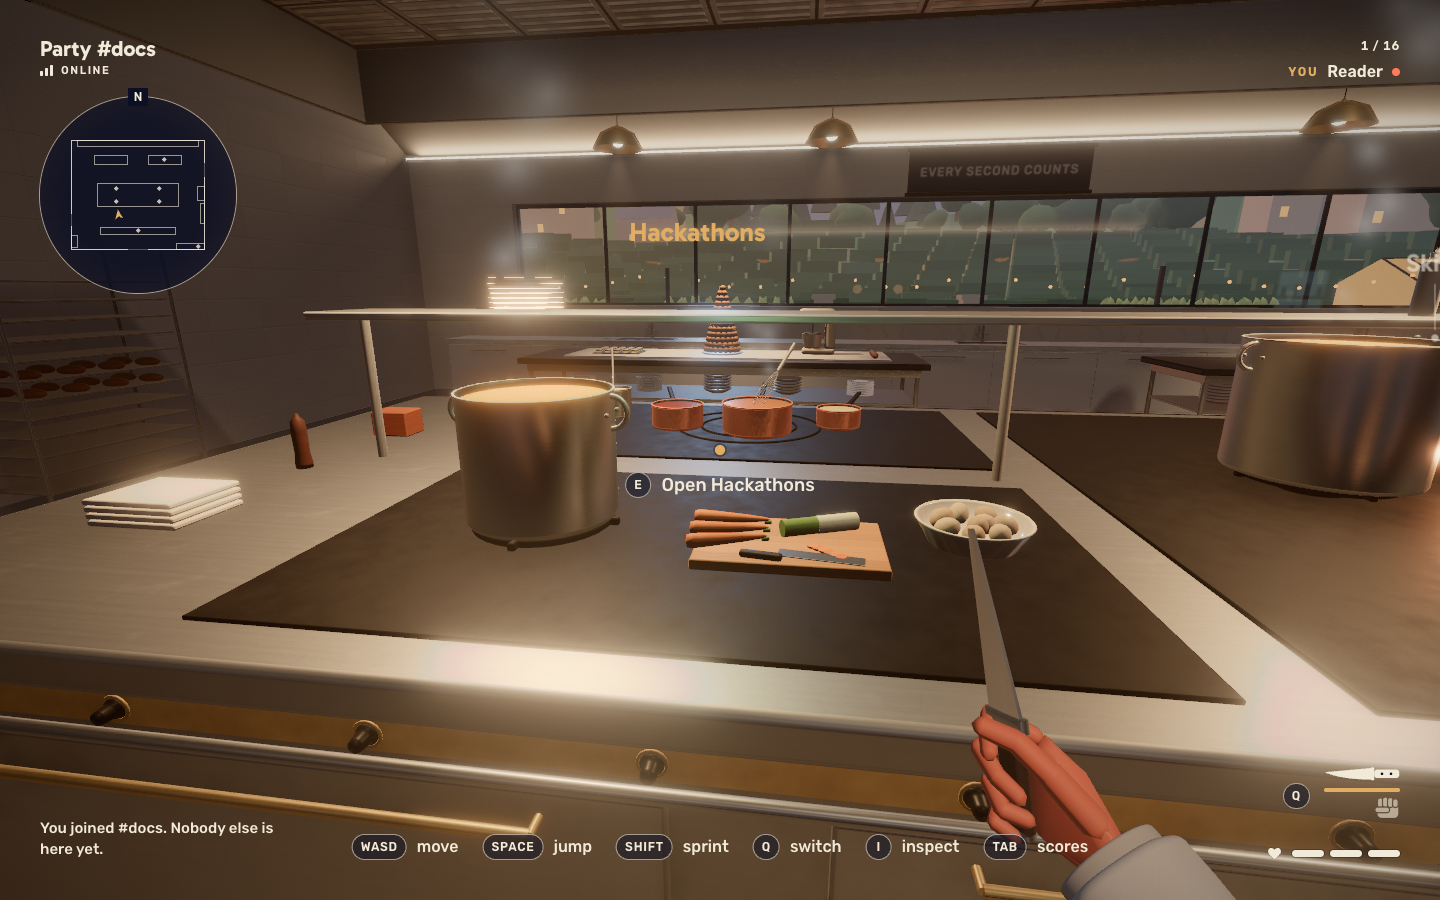
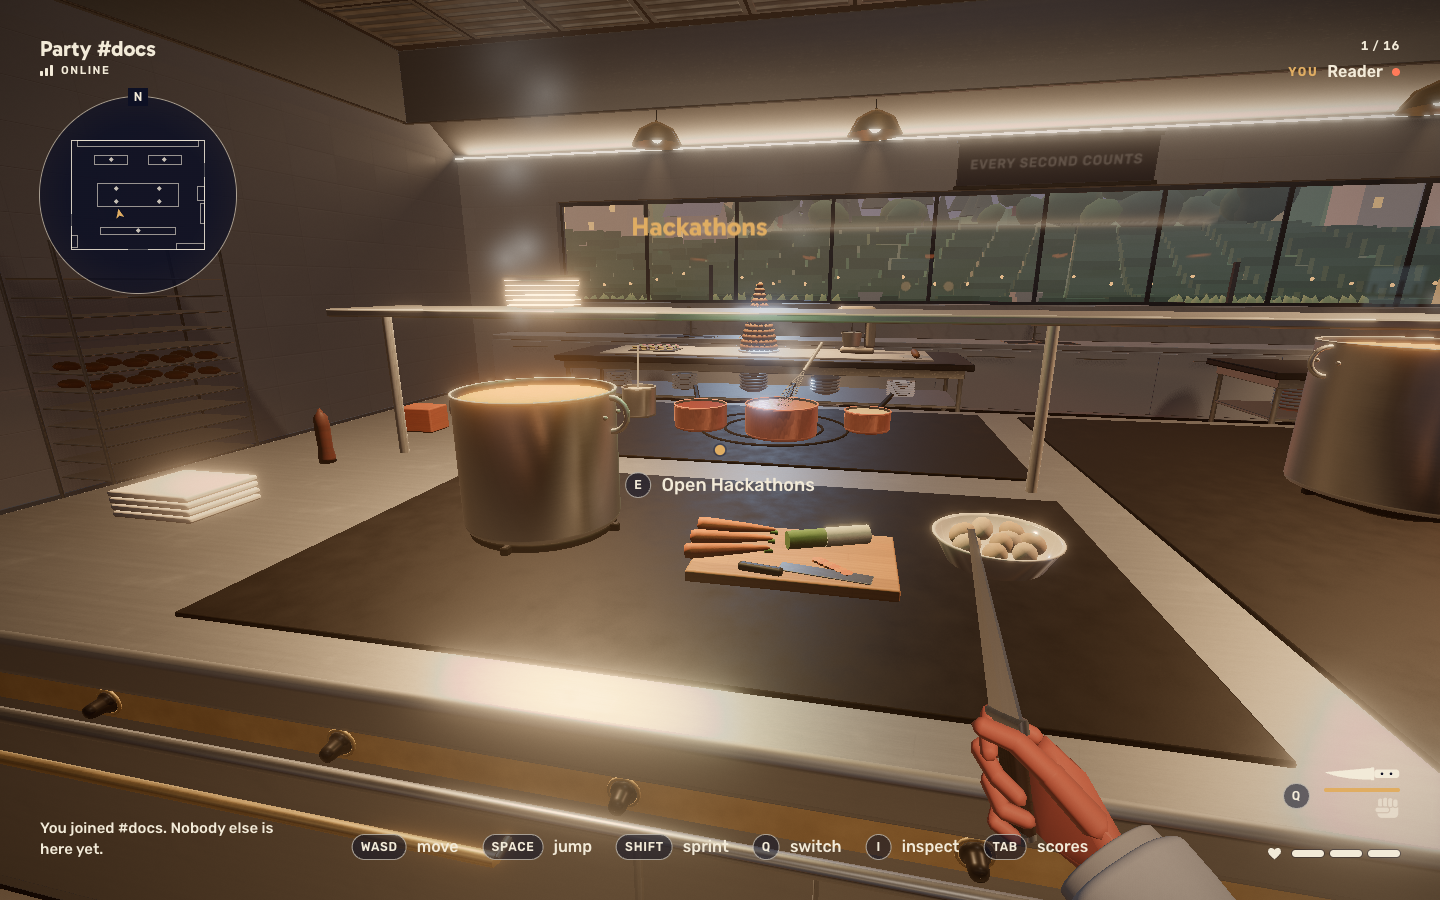
Move Education from the plonge to the pâtisserie, across from Skills, leave the dish pit as scenery, and keep the east wall's picking guard on the croissant
- The pâtisserie is a station again where it was, with its pink light; the plonge is out of STATIONS and StationId, and the pre-rinse spray takes its x from the east sink (7.2), as kitchen.ts and the knife solids do. Still seven stations, Education still last.
- e2e/stations.spec.ts opens Education at the pastry table, and picks the truffle croissant from the spawn with the walk-in shut, the case the 2026-10-09 fix named besides the plonge; `face` in the E2E helpers turns to any point, `faceStation` to a station.
- stations.test.ts checks reach on the pâtisserie from the north, where no other station is in the way.
- The screenshots were taken again.

diff --git a/e2e/stations.spec.ts b/e2e/stations.spec.ts
@@ -1,41 +1,57 @@
 import { expect, test } from '@playwright/test';
+import { PASS_DISHES } from '@world/shared';
 import {
   enterWorld,
-  findWithCursor,
-  grid,
+  face,
+  faceStation,
   MAP_VIEWPORT,
-  turnTo,
   waitUntilStill,
   walkUntil,
   world,
 } from './helpers.ts';
 
-test('the plonge by the east wall opens while the walk-in is shut', async ({ browser }) => {
+test('Education opens at the pastry table across from Skills, and the map and the room give way to it', async ({
+  browser,
+}) => {
   const page = await enterWorld(browser, {
-    name: 'Dishwasher',
+    name: 'Pastry Cook',
     online: false,
     viewport: MAP_VIEWPORT,
   });
-  expect((await world(page)).cooler.open).toBe(false);
-  // From the spawn, along the aisle toward the dish pit in the south-east corner, then face east,
-  // where the walk-in's wall is behind it.
-  await walkUntil(page, 'KeyD', (p) => p.x > 2.6);
+  // From the spawn, round the west end of the pass and the piano, then up to the pastry island.
+  await walkUntil(page, 'KeyA', (p) => p.x < -5.3);
+  await walkUntil(page, 'KeyW', (p) => p.z < -2.6);
+  await walkUntil(page, 'KeyD', (p) => p.x > -3.2);
   await waitUntilStill(page);
-  await turnTo(page, -Math.PI / 2, -0.3);
-
-  // Without pointer lock the game picks under the cursor: sweep it over the view until it finds
-  // the station.
-  const found = await findWithCursor(
-    page,
-    grid([240, 900], [120, 440], { x: 30, y: 16 }),
-    'Press E to open Education',
-  );
-  expect(found, 'the cursor should find the plonge in front of the wall').not.toBeNull();
+  await faceStation(page, 'patisserie');
+  // Without pointer lock the game picks under the cursor: the middle of the screen, as the
+  // crosshair would.
+  await page.mouse.move(MAP_VIEWPORT.width / 2, MAP_VIEWPORT.height / 2);
+  await expect(page.locator('.prompt-sentence')).toHaveText('Press E to open Education');
   await expect(page.locator('.minimap')).toBeVisible();
   await page.keyboard.press('KeyE');
   await expect(page.getByRole('dialog', { name: 'Education' })).toBeVisible();
   // The panel's dark side would wash out a long room name, so the map and the room give way to it.
   await expect(page.locator('.minimap')).toBeHidden();
   await expect(page.locator('.hud-room-title')).toBeHidden();
+  await page.context().close();
+});
+
+test('the croissant by the east wall opens while the walk-in is shut', async ({ browser }) => {
+  const page = await enterWorld(browser, { name: 'Diner', online: false });
+  expect((await world(page)).cooler.open).toBe(false);
+  await waitUntilStill(page);
+  // From the spawn the croissant is at the east end of the pass, and the ten meter pick ray past it
+  // meets the east wall: picking stops at the wall rather than refusing the aim.
+  await face(
+    page,
+    PASS_DISHES.find((d) => d.id === 'truffle-croissant')!,
+  );
+  await page.mouse.move(480, 270);
+  await expect(page.locator('.prompt-sentence')).toHaveText(
+    'Press E to open Black Truffle Croissant',
+  );
+  await page.keyboard.press('KeyE');
+  await expect(page.getByRole('dialog', { name: 'Black Truffle Croissant' })).toBeVisible();
   await page.context().close();
 });

diff --git a/e2e/helpers.ts b/e2e/helpers.ts
@@ -273,16 +273,26 @@ export async function walkUntil(
 }
 
 /**
- * Look straight at a station's centerpiece from wherever the cook stands, as a visitor turns to
- * what they mean to open: a walk that stops a little late on a slow page still ends in front of it.
+ * Look straight at a point from wherever the cook stands, as a visitor turns to what they mean to
+ * open: a walk that stops a little late on a slow page still ends in front of it.
  */
-export async function faceStation(page: Page, id: StationId): Promise<void> {
-  const station = STATIONS.find((s) => s.id === id)!;
+export async function face(
+  page: Page,
+  target: { readonly x: number; readonly y: number; readonly z: number },
+): Promise<void> {
   const { player } = await world(page);
-  const dx = station.x - player.x;
-  const dz = station.z - player.z;
-  const up = station.y - (player.y + EYE_HEIGHT);
+  const dx = target.x - player.x;
+  const dz = target.z - player.z;
+  const up = target.y - (player.y + EYE_HEIGHT);
   await turnTo(page, Math.atan2(-dx, -dz), Math.atan2(up, Math.hypot(dx, dz)));
+}
+
+/** Look straight at a station's centerpiece. */
+export async function faceStation(page: Page, id: StationId): Promise<void> {
+  await face(
+    page,
+    STATIONS.find((s) => s.id === id)!,
+  );
 }
 
 const EAST = -Math.PI / 2;

diff --git a/apps/client/src/content.ts b/apps/client/src/content.ts
@@ -312,9 +312,9 @@ export type StationContent = Readonly<Record<StationId, LoreEntry>>;
 /**
  * What each station's panel says when it is opened in the kitchen. Each station of the brigade
  * serves the part of the resume that suits its work: the pass, the first thing a visitor sees,
- * introduces Daniel; the saucier, the senior station, holds his experiences; the plonge, where every
- * cook starts and by the door to the dining room, holds his education and how to reach him. The
- * pâtisserie holds nothing: it is only the kitchen's pastry corner.
+ * introduces Daniel; the saucier, the senior station, holds his experiences; the pâtisserie, across
+ * from the garde manger's skills, holds his education and how to reach him. The plonge holds
+ * nothing: it is only the kitchen's dish pit.
  */
 export const stations: StationContent = {
   // Le passe, the pass.
@@ -361,11 +361,11 @@ export const stations: StationContent = {
     color: '#9fd8ef',
     items: skills,
   },
-  // Plonge, the dish pit.
-  plonge: {
-    id: 'plonge',
+  // Pâtisserie, pastry.
+  patisserie: {
+    id: 'patisserie',
     title: 'Education',
-    color: '#a9b8ff',
+    color: '#f4a6c6',
     items: education,
     links,
   },

diff --git a/packages/shared/src/world.ts b/packages/shared/src/world.ts
@@ -413,7 +413,7 @@ function crossesBesideDoorway(
 }
 
 export type StationId =
-  'passe' | 'saucier' | 'poissonnier' | 'rotisseur' | 'entremetier' | 'garde-manger' | 'plonge';
+  'passe' | 'saucier' | 'poissonnier' | 'rotisseur' | 'entremetier' | 'garde-manger' | 'patisserie';
 
 export interface Station {
   readonly id: StationId;
@@ -430,7 +430,7 @@ const ON_COUNTER = COUNTER_HEIGHT + 0.25;
 
 /**
  * The stations of the brigade that each hold a section of Daniel's resume, all clickable. The
- * pâtisserie is not one: its island is only the kitchen's pastry corner.
+ * plonge is not one: its sinks are only the kitchen's dish pit.
  */
 export const STATIONS: readonly Station[] = [
   { id: 'entremetier', x: -2.6, y: ON_COUNTER, z: PIANO_ROW, radius: 0.75 },
@@ -439,7 +439,7 @@ export const STATIONS: readonly Station[] = [
   { id: 'poissonnier', x: 2.6, y: ON_COUNTER, z: -PIANO_ROW, radius: 0.75 },
   { id: 'passe', x: 0, y: COUNTER_HEIGHT + 0.35, z: 4.3, radius: 1.0 },
   { id: 'garde-manger', x: 3.2, y: ON_COUNTER, z: -4.2, radius: 0.8 },
-  { id: 'plonge', x: 7.2, y: ON_COUNTER, z: 6.15, radius: 0.8 },
+  { id: 'patisserie', x: -3.2, y: COUNTER_HEIGHT + 0.4, z: -4.2, radius: 0.85 },
 ];
 
 /**

diff --git a/apps/client/src/world/props.ts b/apps/client/src/world/props.ts
@@ -1356,10 +1356,7 @@ function gardeManger(kit: Kit): void {
 
 /** Pâtisserie: a croquembouche, macarons, and a stand mixer, with a marble slab for the pastry. */
 function patisserie(kit: Kit): void {
-  // Not a station, so its middle is the island's.
-  const island = KITCHEN.pastryIsland;
-  const cx = (island.minX + island.maxX) / 2;
-  const cz = (island.minZ + island.maxZ) / 2;
+  const { x: cx, z: cz } = stationAt('patisserie');
   // A marble slab set on the charcoal top: cool, for working butter into dough.
   kit.rounded('stone', cx + 0.05, TOP + 0.01, cz, 3.3, 0.02, 0.8, 0.005, paint.marble, {
     finish: 0.4,
@@ -1516,7 +1513,8 @@ function patisserie(kit: Kit): void {
 
 /** Plonge: the pre-rinse spray over the dish pit's sink, and clean plates and glasses. */
 function plonge(kit: Kit): void {
-  const { x: cx } = stationAt('plonge');
+  // Over the east sink of the two (kitchen.ts); the plonge is not a station.
+  const cx = 7.2;
   // The counter is against the south wall; the room is to the north (-Z).
   const back = KITCHEN.plonge.maxZ - 0.1;
   const out = -1;

diff --git a/apps/client/src/world/stations.test.ts b/apps/client/src/world/stations.test.ts
@@ -68,11 +68,12 @@ describe('Stations', () => {
 
   it('does not pick stations beyond reach', () => {
     const s = new Stations(stations, dishes, false);
-    const target = station('plonge');
-    const far = target.clone().add(new Vector3(0, 0, PICK_DISTANCE + 1));
+    // From the north, past the windows, where no other station is in the way.
+    const target = station('patisserie');
+    const far = target.clone().add(new Vector3(0, 0, -(PICK_DISTANCE + 1)));
     expect(s.pick(rayAt(far, target))).toBe(-1);
-    const near = target.clone().add(new Vector3(0, 0, PICK_DISTANCE - 1));
-    expect(s.entryAt(s.pick(rayAt(near, target)))?.id).toBe('plonge');
+    const near = target.clone().add(new Vector3(0, 0, -(PICK_DISTANCE - 1)));
+    expect(s.entryAt(s.pick(rayAt(near, target)))?.id).toBe('patisserie');
   });
 
   it('fades its light out before moving it to a newly hovered station', () => {

diff --git a/apps/client/src/content.test.ts b/apps/client/src/content.test.ts
@@ -71,7 +71,7 @@ describe('content', () => {
   });
 
   it('links to Daniel by email, LinkedIn and GitHub', () => {
-    expect((stations.plonge.links ?? []).map((l) => l.href)).toEqual([
+    expect((stations.patisserie.links ?? []).map((l) => l.href)).toEqual([
       'mailto:dkim927@uchicago.edu',
       'https://www.linkedin.com/in/doyoondanielkim',
       'https://github.com/danielk927',

diff --git a/SPEC.md b/SPEC.md
@@ -39,7 +39,7 @@ Build an original implementation. Do not copy code, assets, or content from that
    It is rendered to a cinematic standard, not low-poly: smooth and rounded forms, physically based materials whose detail is painted procedurally at its real size (brushed stainless, copper, glazed tile, stone, butcher block), reflections of the room itself, contact shadows, and props and dishes modeled to look good enough to eat.
    It is evening service, lit after Gusteau's kitchen in Ratatouille: the blue hour outside the windows and skylights, warm light from the kitchen's own lamps inside, in pools.
 3. **Controls**: pointer-lock first-person, WASD + mouse look, Space to jump, Shift to sprint, collision with ground and major objects. Esc releases the mouse and opens a pause menu.
-4. **Stations**: seven stations of the classical brigade (le passe, saucier, poissonnier, rôtisseur, entremetier, garde manger, plonge) are the objects you can open; the pâtisserie is only the kitchen's pastry corner. Looking at one highlights it; E opens an info panel. Each station serves one section of Daniel's resume, and its label names the section only; the French station names are only the stations' ids and comments in `content.ts`, out of the game. All content comes from `apps/client/src/content.ts`.
+4. **Stations**: seven stations of the classical brigade (le passe, saucier, poissonnier, rôtisseur, entremetier, garde manger, pâtisserie) are the objects you can open; the plonge is only the kitchen's dish pit. Looking at one highlights it; E opens an info panel. Each station serves one section of Daniel's resume, and its label names the section only; the French station names are only the stations' ids and comments in `content.ts`, out of the game. All content comes from `apps/client/src/content.ts`.
 5. **Multiplayer**:
    - Everyone in the same room sees each other as simple stylized avatars (built from primitives, colored per player) with floating name tags.
    - Remote avatars move smoothly (snapshot interpolation) and animate (bob while walking, jump).

diff --git a/DECISIONS.md b/DECISIONS.md
@@ -1211,3 +1211,13 @@ The protocol is version 9; the room server half reaches visitors only with `npm 
   A 24-character party code, 302 px at the new size, is whole from 800 px wide and ends in an ellipsis below.
 - **The check that keeps the graduation off the site lets "graduated" through**, which About me uses for high school; "graduate", "graduates", "graduating" and "graduation" are still caught, as is any year after this one.
 - **The screenshot script opens Hackathons**, the pâtisserie having nothing to open, and looks down at the station first, since the crosshair over it from where the cook stops misses.
+
+### Education on the pastry table (2026-10-12)
+
+- **Education moved from the plonge to the pâtisserie**, at Daniel's request, so it sits on the back island across from the garde manger's Skills; the plonge is now only the dish pit, out of `STATIONS` and `StationId`, and the pâtisserie is a station again where it was, with its own pink light.
+  It is still seven stations, and Education is still the last panel.
+  The pre-rinse spray over the east sink takes its x from the sink (7.2, as `kitchen.ts` and the knife solids have it), not from the station that was there.
+- **The guard for picking in front of the east wall moved to the croissant.**
+  `e2e/stations.spec.ts` had opened the plonge from the aisle with the walk-in shut, since a pick whose ten meter ray crossed the east wall used to be refused (2026-10-09); the truffle croissant from the spawn was the other case that fix named, and the spec opens it now.
+  A new spec walks to the pastry table and opens Education there, the map and the room giving way to its panel as before.
+- `stations.test.ts`' reach check aims at the pâtisserie from the north, past the windows: from the south its ray would pass the entremetier first.

diff --git a/README.md b/README.md
@@ -64,8 +64,8 @@ Scores last as long as the cook is in the room, so leaving and coming back start
 
 All personal content lives in [`apps/client/src/content.ts`](apps/client/src/content.ts).
 It holds what the kitchen's seven stations (`stations`) and its dishes say when they are opened, taken from Daniel's resume, and his own words about each dish.
-Each station serves one part of it, and its label says which: the pass is About me, the saucier Experiences, the poissonnier Research, the rôtisseur Projects, the entremetier Hackathons, the garde manger Skills, and the plonge Education.
-The pâtisserie is only the kitchen's pastry corner, and cannot be opened.
+Each station serves one part of it, and its label says which: the pass is About me, the saucier Experiences, the poissonnier Research, the rôtisseur Projects, the entremetier Hackathons, the garde manger Skills, and the pâtisserie, the island across from it, Education.
+The plonge is only the kitchen's dish pit, and cannot be opened.
 The resume itself is a PDF, `apps/client/public/Doyoon-Kim-resume.pdf`, served as it is at `/Doyoon-Kim-resume.pdf`; replace the file under the same name to update it, and the next deploy shows the new one.
 It is not generated from `content.ts`, so a change to a role or project goes in both places.
 

diff --git a/PROGRESS.md b/PROGRESS.md
@@ -231,6 +231,12 @@ The work of 2026-10-09 and 10, at Daniel's request, all committed on `main` and 
 - The room name and status sit over the minimap in the top left, smaller; the map goes on a window under 584 px tall, where an open chat would meet it.
 - Lint, typecheck, 1237 unit tests, all 60 E2E tests (the changed specs again with `E2E_CPU_THROTTLE=4`) and the build pass; the screenshots were taken again.
 
+### Education on the pastry table (2026-10-12)
+
+- Education moved from the dish pit to the pâtisserie, the island across from Skills, at Daniel's request; the plonge is only the dish pit now, still seven stations.
+- `e2e/stations.spec.ts` opens Education at the pastry table, and keeps the old plonge spec's guard with the croissant: picked from the spawn with the walk-in shut, its ten meter ray past the east wall.
+- Lint, typecheck, 1237 unit tests, all 61 E2E tests (51 in a full run, and the 10 that ran while the machine slept passed again once it was awake) and the build pass; the screenshots were taken again.
+
 ### How to run it
 
 ```bash
